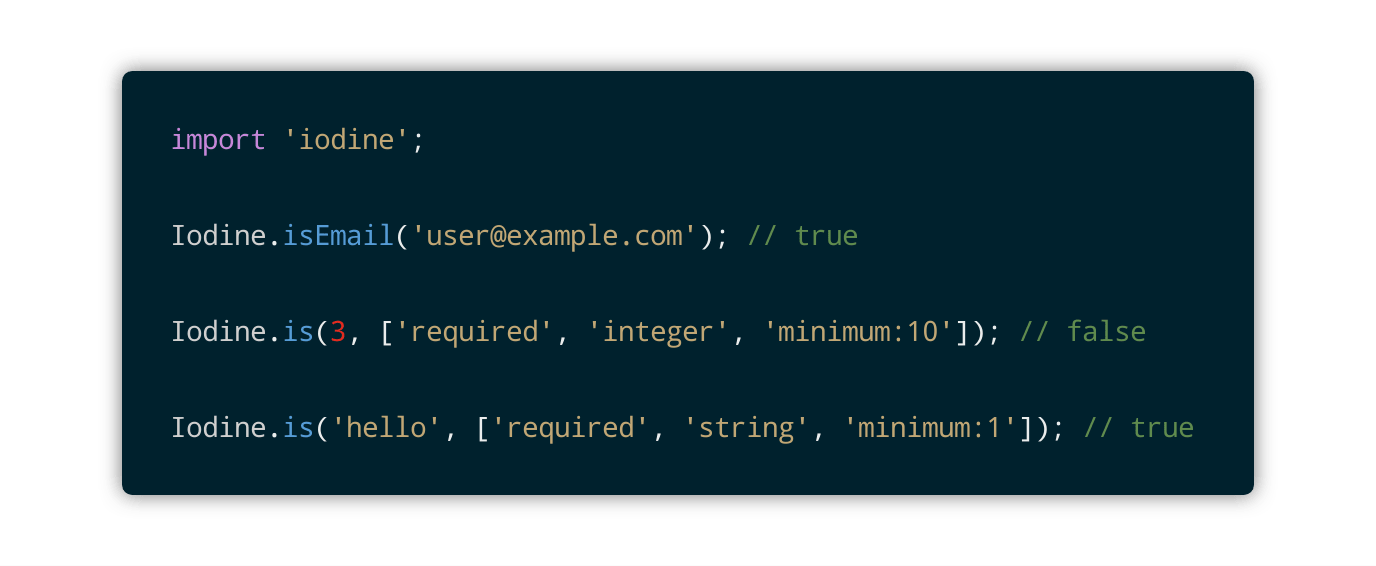
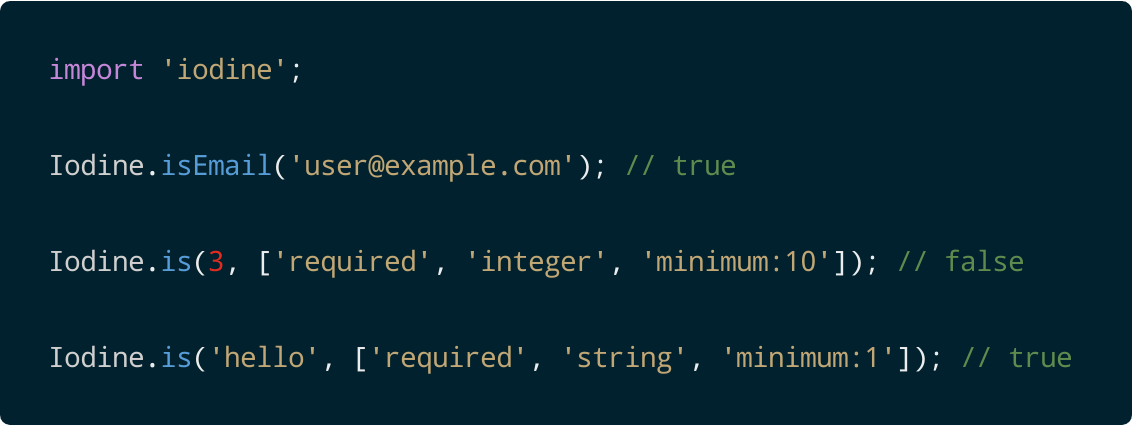
fixed example screenshot

diff --git a/README.md b/README.md
@@ -1,6 +1,7 @@
 <!-- Screenshot -->
 <p align="center">
-    <img src="resources/example.png" alt="Code example" height="300">
+    <img src="resources/example.png" alt="Code example" height="250"
+		 style="box-shadow: 0 1px 3px 0 rgba(0, 0, 0, 0.1), 0 1px 2px 0 rgba(0, 0, 0, 0.06)">
 </p>
 
 <!-- Badges -->
